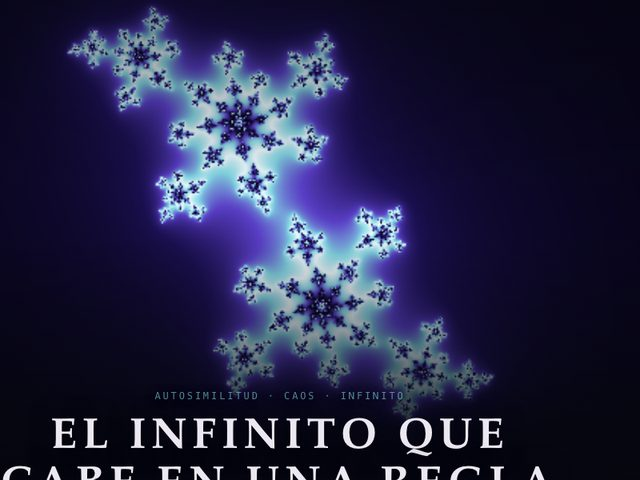
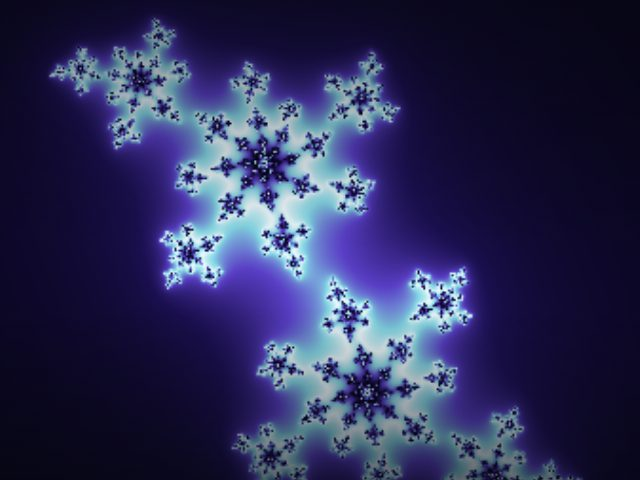
Detalles: resúmenes de apps sin repetición, empieza por aquí, ícono, tarjeta para compartir, miniaturas de Sudoku y Fractales

diff --git a/aplicaciones/index.html b/aplicaciones/index.html
@@ -11,6 +11,12 @@
 <link rel="preconnect" href="https://fonts.googleapis.com">
 <link rel="preconnect" href="https://fonts.gstatic.com" crossorigin>
 <link rel="stylesheet" href="https://fonts.googleapis.com/css2?family=Fraunces:opsz,wght@9..144,300;9..144,400;9..144,600&family=Newsreader:ital,opsz,wght@0,6..72,300;0,6..72,400;0,6..72,600;1,6..72,300;1,6..72,400&family=IBM+Plex+Mono:wght@400;500&display=swap">
+<link rel="icon" href="https://alex-vazquez73.github.io/favicon.svg" type="image/svg+xml">
+<link rel="alternate icon" href="https://alex-vazquez73.github.io/favicon.ico" sizes="any">
+<meta property="og:image" content="https://alex-vazquez73.github.io/tarjeta.png">
+<meta property="og:image:width" content="1200">
+<meta property="og:image:height" content="630">
+<meta name="twitter:card" content="summary_large_image">
 <style>
 :root{
   --ground:#EBEDF1; --surface:#F5F6F8; --ink:#141A22; --ink-soft:#58616F;
@@ -380,6 +386,13 @@ h1{font-family:"Fraunces","Newsreader",Georgia,serif;font-weight:400;
 @media (max-width:640px){
   .app .cab{grid-column:1/-1;}
 }
+/* 2026-11-09 (detalles) — una puerta para quien tiene poco tiempo */
+.empieza{font-family:"Fraunces",Georgia,serif;font-style:italic;font-weight:300;font-size:1.02rem;
+  line-height:1.45;color:var(--ink-soft);margin:0 0 1.6rem;text-wrap:pretty;}
+.empieza a{color:var(--ink);font-style:normal;font-weight:400;text-decoration:underline;
+  text-decoration-color:var(--lamp);text-decoration-thickness:1px;text-underline-offset:.22em;}
+.empieza a:hover{text-decoration-thickness:2px;}
+.empieza a:focus-visible{outline:none;box-shadow:0 0 0 2px var(--lamp);border-radius:2px;}
 </style>
 
 <button id="toggle" type="button" aria-label="Cambiar tema">Tema</button>
@@ -407,31 +420,31 @@ h1{font-family:"Fraunces","Newsreader",Georgia,serif;font-weight:400;
     <li class="c-mat" data-cat="mat" data-sub="Números"><a class="app" href="../el-numero-mas-irracional/">
       <img class="mini" src="../miniaturas/el-numero-mas-irracional.jpg" alt="" width="640" height="480" loading="lazy" decoding="async">
       <span class="cab"><span class="cat c-mat"><i></i><b>Matemáticas</b>· Números</span><span class="fecha">Octubre 2026</span></span>
-      <span class="texto"><span class="ti">El número más irracional</span><span class="sub">Fibonacci y la proporción áurea, sin mitos</span><span class="resumen">Un recorrido visual por la sucesión de Fibonacci y φ: de dónde sale, la espiral, el girasol, los mitos que no resisten una regla y los retrocesos que usan los traders, con un tramo real del Dow Jones. Cada sección es visual primero; la demostración está a un botón. Todo ocurre en tu navegador.</span></span>
+      <span class="texto"><span class="ti">El número más irracional</span><span class="sub">Fibonacci y la proporción áurea, sin mitos</span><span class="resumen">Un recorrido visual por la sucesión de Fibonacci y φ: de dónde sale, la espiral, el girasol, los mitos que no resisten una regla y los retrocesos que usan los traders, con un tramo real del Dow Jones. Cada sección es visual primero; la demostración está a un botón.</span></span>
       <span class="leer"><span>Abrir</span><span>&rarr;</span></span>
     </a></li>
     <li class="c-sci" data-cat="sci" data-sub="Astros"><a class="app" href="../la-inmensidad/">
       <img class="mini" src="../miniaturas/la-inmensidad.jpg" alt="" width="640" height="480" loading="lazy" decoding="async">
       <span class="cab"><span class="cat c-sci"><i></i><b>Ciencia</b>· Astros</span><span class="fecha">Octubre 2026</span></span>
-      <span class="texto"><span class="ti">La Inmensidad del Universo</span><span class="sub">Un atlas del vértigo cósmico</span><span class="resumen">Compara el tamaño de los astros, de una estrella de neutrones al universo observable, o viaja de la Tierra al borde de lo visible, incluso a la velocidad de la luz en tiempo real. Con fotografías reales de NASA, ESA y ESO; lo que nadie ha fotografiado está reconstruido y marcado. Todo ocurre en tu navegador.</span></span>
+      <span class="texto"><span class="ti">La Inmensidad del Universo</span><span class="sub">Un atlas del vértigo cósmico</span><span class="resumen">Compara el tamaño de los astros, de una estrella de neutrones al universo observable, o viaja de la Tierra al borde de lo visible, incluso a la velocidad de la luz en tiempo real. Con fotografías reales de NASA, ESA y ESO; lo que nadie ha fotografiado está reconstruido y marcado.</span></span>
       <span class="leer"><span>Abrir</span><span>&rarr;</span></span>
     </a></li>
     <li class="c-mis" data-cat="mis" data-sub="Sonido"><a class="app" href="../frecuencias-binaurales/">
       <img class="mini" src="../miniaturas/frecuencias-binaurales.jpg" alt="" width="640" height="480" loading="lazy" decoding="async">
       <span class="cab"><span class="cat c-mis"><i></i><b>Misticismo</b>· Sonido</span><span class="fecha">Octubre 2026</span></span>
-      <span class="texto"><span class="ti">Frecuencias binaurales</span><span class="sub">Dos tonos, uno por oído, y el pulso que el cerebro pone entre ambos</span><span class="resumen">Genera en tu navegador tonos binaurales para dormir, meditar, calmarte o enfocarte, con temporizador, respiración guiada y sonido ambiente. Necesita audífonos. Es bienestar sonoro, no tratamiento. Todo ocurre en tu navegador.</span></span>
+      <span class="texto"><span class="ti">Frecuencias binaurales</span><span class="sub">Dos tonos, uno por oído, y el pulso que el cerebro pone entre ambos</span><span class="resumen">Genera en tu navegador tonos binaurales para dormir, meditar, calmarte o enfocarte, con temporizador, respiración guiada y sonido ambiente. Necesita audífonos. Es bienestar sonoro, no tratamiento.</span></span>
       <span class="leer"><span>Abrir</span><span>&rarr;</span></span>
     </a></li>
     <li class="c-mat" data-cat="mat" data-sub="Juegos"><a class="app" href="../sudoku-maestro/">
       <img class="mini" src="../miniaturas/sudoku-maestro.jpg" alt="" width="640" height="480" loading="lazy" decoding="async">
       <span class="cab"><span class="cat c-mat"><i></i><b>Matemáticas</b>· Juegos</span><span class="fecha">Octubre 2026</span></span>
-      <span class="texto"><span class="ti">Sudoku Maestro</span><span class="sub">Sudokus sin fin, cada uno con una sola solución</span><span class="resumen">Inventa un tablero nuevo cada vez y comprueba que tenga una sola solución, como debe ser. Tres niveles, notas, puntaje y una cita sobre los números en cada partida. Todo ocurre en tu navegador.</span></span>
+      <span class="texto"><span class="ti">Sudoku Maestro</span><span class="sub">Sudokus sin fin, cada uno con una sola solución</span><span class="resumen">Inventa un tablero nuevo cada vez y comprueba que tenga una sola solución, como debe ser. Tres niveles, notas, puntaje y una cita sobre los números en cada partida.</span></span>
       <span class="leer"><span>Abrir</span><span>&rarr;</span></span>
     </a></li>
     <li class="c-mis" data-cat="mis" data-sub="Astrología"><a class="app" href="../carta-natal/">
       <img class="mini" src="../miniaturas/carta-natal.jpg" alt="" width="640" height="480" loading="lazy" decoding="async">
       <span class="cab"><span class="cat c-mis"><i></i><b>Misticismo</b>· Astrología</span><span class="fecha">Agosto 2026</span></span>
-      <span class="texto"><span class="ti">La energía del Universo — Carta Natal</span><span class="sub">Tu carta natal, calculada en tu propio navegador</span><span class="resumen">Calcula tu carta natal con datos astronómicos precisos y la dibuja: planetas, casas y aspectos. No te dice qué significa; eso queda de tu lado. Todo ocurre en tu navegador y tus datos no salen de tu dispositivo.</span></span>
+      <span class="texto"><span class="ti">La energía del Universo — Carta Natal</span><span class="sub">Tu carta natal, calculada en tu propio navegador</span><span class="resumen">Calcula tu carta natal con datos astronómicos precisos y la dibuja: planetas, casas y aspectos. No te dice qué significa; eso queda de tu lado. Tus datos no salen de tu dispositivo.</span></span>
       <span class="leer"><span>Abrir</span><span>&rarr;</span></span>
     </a></li>
   </ul>

diff --git a/ensayos/index.html b/ensayos/index.html
@@ -11,6 +11,12 @@
 <link rel="preconnect" href="https://fonts.googleapis.com">
 <link rel="preconnect" href="https://fonts.gstatic.com" crossorigin>
 <link rel="stylesheet" href="https://fonts.googleapis.com/css2?family=Fraunces:opsz,wght@9..144,300;9..144,400;9..144,600&family=Newsreader:ital,opsz,wght@0,6..72,300;0,6..72,400;0,6..72,600;1,6..72,300;1,6..72,400&family=IBM+Plex+Mono:wght@400;500&display=swap">
+<link rel="icon" href="https://alex-vazquez73.github.io/favicon.svg" type="image/svg+xml">
+<link rel="alternate icon" href="https://alex-vazquez73.github.io/favicon.ico" sizes="any">
+<meta property="og:image" content="https://alex-vazquez73.github.io/tarjeta.png">
+<meta property="og:image:width" content="1200">
+<meta property="og:image:height" content="630">
+<meta name="twitter:card" content="summary_large_image">
 <style>
 :root{
   --ground:#EBEDF1; --surface:#F5F6F8; --ink:#141A22; --ink-soft:#58616F;
@@ -380,6 +386,13 @@ h1{font-family:"Fraunces","Newsreader",Georgia,serif;font-weight:400;
 @media (max-width:640px){
   .app .cab{grid-column:1/-1;}
 }
+/* 2026-11-09 (detalles) — una puerta para quien tiene poco tiempo */
+.empieza{font-family:"Fraunces",Georgia,serif;font-style:italic;font-weight:300;font-size:1.02rem;
+  line-height:1.45;color:var(--ink-soft);margin:0 0 1.6rem;text-wrap:pretty;}
+.empieza a{color:var(--ink);font-style:normal;font-weight:400;text-decoration:underline;
+  text-decoration-color:var(--lamp);text-decoration-thickness:1px;text-underline-offset:.22em;}
+.empieza a:hover{text-decoration-thickness:2px;}
+.empieza a:focus-visible{outline:none;box-shadow:0 0 0 2px var(--lamp);border-radius:2px;}
 </style>
 
 <button id="toggle" type="button" aria-label="Cambiar tema">Tema</button>
@@ -393,6 +406,7 @@ h1{font-family:"Fraunces","Newsreader",Georgia,serif;font-weight:400;
     <p class="totales"><span><b>7</b> ensayos</span><span><b>91,126</b> palabras</span><span><b>~7 h 38 min</b> de lectura</span></p>
   </header>
 
+  <p class="empieza">¿Poco tiempo? Empieza por <a href="../incomodidad-despertar/">La incomodidad, ¿precio del despertar?</a>: se lee en unos 16 min.</p>
   <div class="filtros" role="group" aria-label="Categorías"><button class="chip" type="button" data-f="" data-n="Todo" aria-pressed="true">Todo <em>7</em></button><button class="chip c-eco" type="button" data-f="eco" data-n="Economía" aria-pressed="false"><i></i>Economía <em>2</em></button><button class="chip c-sci" type="button" data-f="sci" data-n="Ciencia" aria-pressed="false"><i></i>Ciencia <em>2</em></button><button class="chip c-fil" type="button" data-f="fil" data-n="Filosofía" aria-pressed="false"><i></i>Filosofía <em>3</em></button></div>
   <div class="filtros subs" data-de="eco" role="group" aria-label="Subcategorías de Economía" hidden><button class="chip sub c-eco" type="button" data-s="Desigualdad" data-de="eco" aria-pressed="false">Desigualdad <em>1</em></button><button class="chip sub c-eco" type="button" data-s="Economía política" data-de="eco" aria-pressed="false">Economía política <em>1</em></button></div>
   <div class="filtros subs" data-de="fil" role="group" aria-label="Subcategorías de Filosofía" hidden><button class="chip sub c-fil" type="button" data-s="Existencialismo" data-de="fil" aria-pressed="false">Existencialismo <em>2</em></button><button class="chip sub c-fil" type="button" data-s="Espiritualidad" data-de="fil" aria-pressed="false">Espiritualidad <em>1</em></button></div>

diff --git a/index.html b/index.html
@@ -11,6 +11,12 @@
 <link rel="preconnect" href="https://fonts.googleapis.com">
 <link rel="preconnect" href="https://fonts.gstatic.com" crossorigin>
 <link rel="stylesheet" href="https://fonts.googleapis.com/css2?family=Fraunces:opsz,wght@9..144,300;9..144,400;9..144,600&family=Newsreader:ital,opsz,wght@0,6..72,300;0,6..72,400;0,6..72,600;1,6..72,300;1,6..72,400&family=IBM+Plex+Mono:wght@400;500&display=swap">
+<link rel="icon" href="https://alex-vazquez73.github.io/favicon.svg" type="image/svg+xml">
+<link rel="alternate icon" href="https://alex-vazquez73.github.io/favicon.ico" sizes="any">
+<meta property="og:image" content="https://alex-vazquez73.github.io/tarjeta.png">
+<meta property="og:image:width" content="1200">
+<meta property="og:image:height" content="630">
+<meta name="twitter:card" content="summary_large_image">
 <style>
 :root{
   --ground:#EBEDF1; --surface:#F5F6F8; --ink:#141A22; --ink-soft:#58616F;
@@ -380,6 +386,13 @@ h1{font-family:"Fraunces","Newsreader",Georgia,serif;font-weight:400;
 @media (max-width:640px){
   .app .cab{grid-column:1/-1;}
 }
+/* 2026-11-09 (detalles) — una puerta para quien tiene poco tiempo */
+.empieza{font-family:"Fraunces",Georgia,serif;font-style:italic;font-weight:300;font-size:1.02rem;
+  line-height:1.45;color:var(--ink-soft);margin:0 0 1.6rem;text-wrap:pretty;}
+.empieza a{color:var(--ink);font-style:normal;font-weight:400;text-decoration:underline;
+  text-decoration-color:var(--lamp);text-decoration-thickness:1px;text-underline-offset:.22em;}
+.empieza a:hover{text-decoration-thickness:2px;}
+.empieza a:focus-visible{outline:none;box-shadow:0 0 0 2px var(--lamp);border-radius:2px;}
 </style>
 
 <button id="toggle" type="button" aria-label="Cambiar tema">Tema</button>
@@ -396,7 +409,7 @@ h1{font-family:"Fraunces","Newsreader",Georgia,serif;font-weight:400;
   <p class="section-label"><span>Lo último publicado</span><span class="count">Noviembre 2026</span></p>
   <a class="destacada" href="fractales/">
     <span class="cat c-mat"><i></i><b>Matemáticas</b>· Geometría</span>
-    <p class="meta"><span class="kind">Aplicación</span><span>Noviembre 2026</span></p>
+    <p class="meta"><span class="kind">Aplicación</span></p>
     <h2>El infinito que cabe en una regla</h2>
     <p class="sub">Un recorrido por los fractales</p>
     <p class="blurb">Puntos lanzados al azar que dibujan un triángulo perfecto, una costa que no termina de medirse, un viaje de un billón de aumentos por el conjunto de Mandelbrot, helechos hechos con cuatro reglas, el caos de Lorenz y la forma quebrada del Dow Jones. Cada sección es visual primero; las fórmulas están a un botón. Al final, un laboratorio con doce fractales.</p>

diff --git a/privacidad/index.html b/privacidad/index.html
@@ -7,6 +7,8 @@
 <link rel="preconnect" href="https://fonts.googleapis.com">
 <link rel="preconnect" href="https://fonts.gstatic.com" crossorigin>
 <link rel="stylesheet" href="https://fonts.googleapis.com/css2?family=Fraunces:opsz,wght@9..144,300;9..144,400;9..144,600&family=Newsreader:ital,opsz,wght@0,6..72,300;0,6..72,400;0,6..72,600;1,6..72,300;1,6..72,400&family=IBM+Plex+Mono:wght@400;500&display=swap">
+<link rel="icon" href="https://alex-vazquez73.github.io/favicon.svg" type="image/svg+xml">
+<link rel="alternate icon" href="https://alex-vazquez73.github.io/favicon.ico" sizes="any">
 <style>
 :root{
   --ground:#EBEDF1; --surface:#F5F6F8; --ink:#141A22; --ink-soft:#58616F;
@@ -376,6 +378,13 @@ h1{font-family:"Fraunces","Newsreader",Georgia,serif;font-weight:400;
 @media (max-width:640px){
   .app .cab{grid-column:1/-1;}
 }
+/* 2026-11-09 (detalles) — una puerta para quien tiene poco tiempo */
+.empieza{font-family:"Fraunces",Georgia,serif;font-style:italic;font-weight:300;font-size:1.02rem;
+  line-height:1.45;color:var(--ink-soft);margin:0 0 1.6rem;text-wrap:pretty;}
+.empieza a{color:var(--ink);font-style:normal;font-weight:400;text-decoration:underline;
+  text-decoration-color:var(--lamp);text-decoration-thickness:1px;text-underline-offset:.22em;}
+.empieza a:hover{text-decoration-thickness:2px;}
+.empieza a:focus-visible{outline:none;box-shadow:0 0 0 2px var(--lamp);border-radius:2px;}
 
 .priv h2{font-family:"Fraunces",Georgia,serif;font-weight:400;font-size:1.3rem;margin:2.2rem 0 .4rem;}
 .priv p{margin:0;color:var(--ink-soft);}
